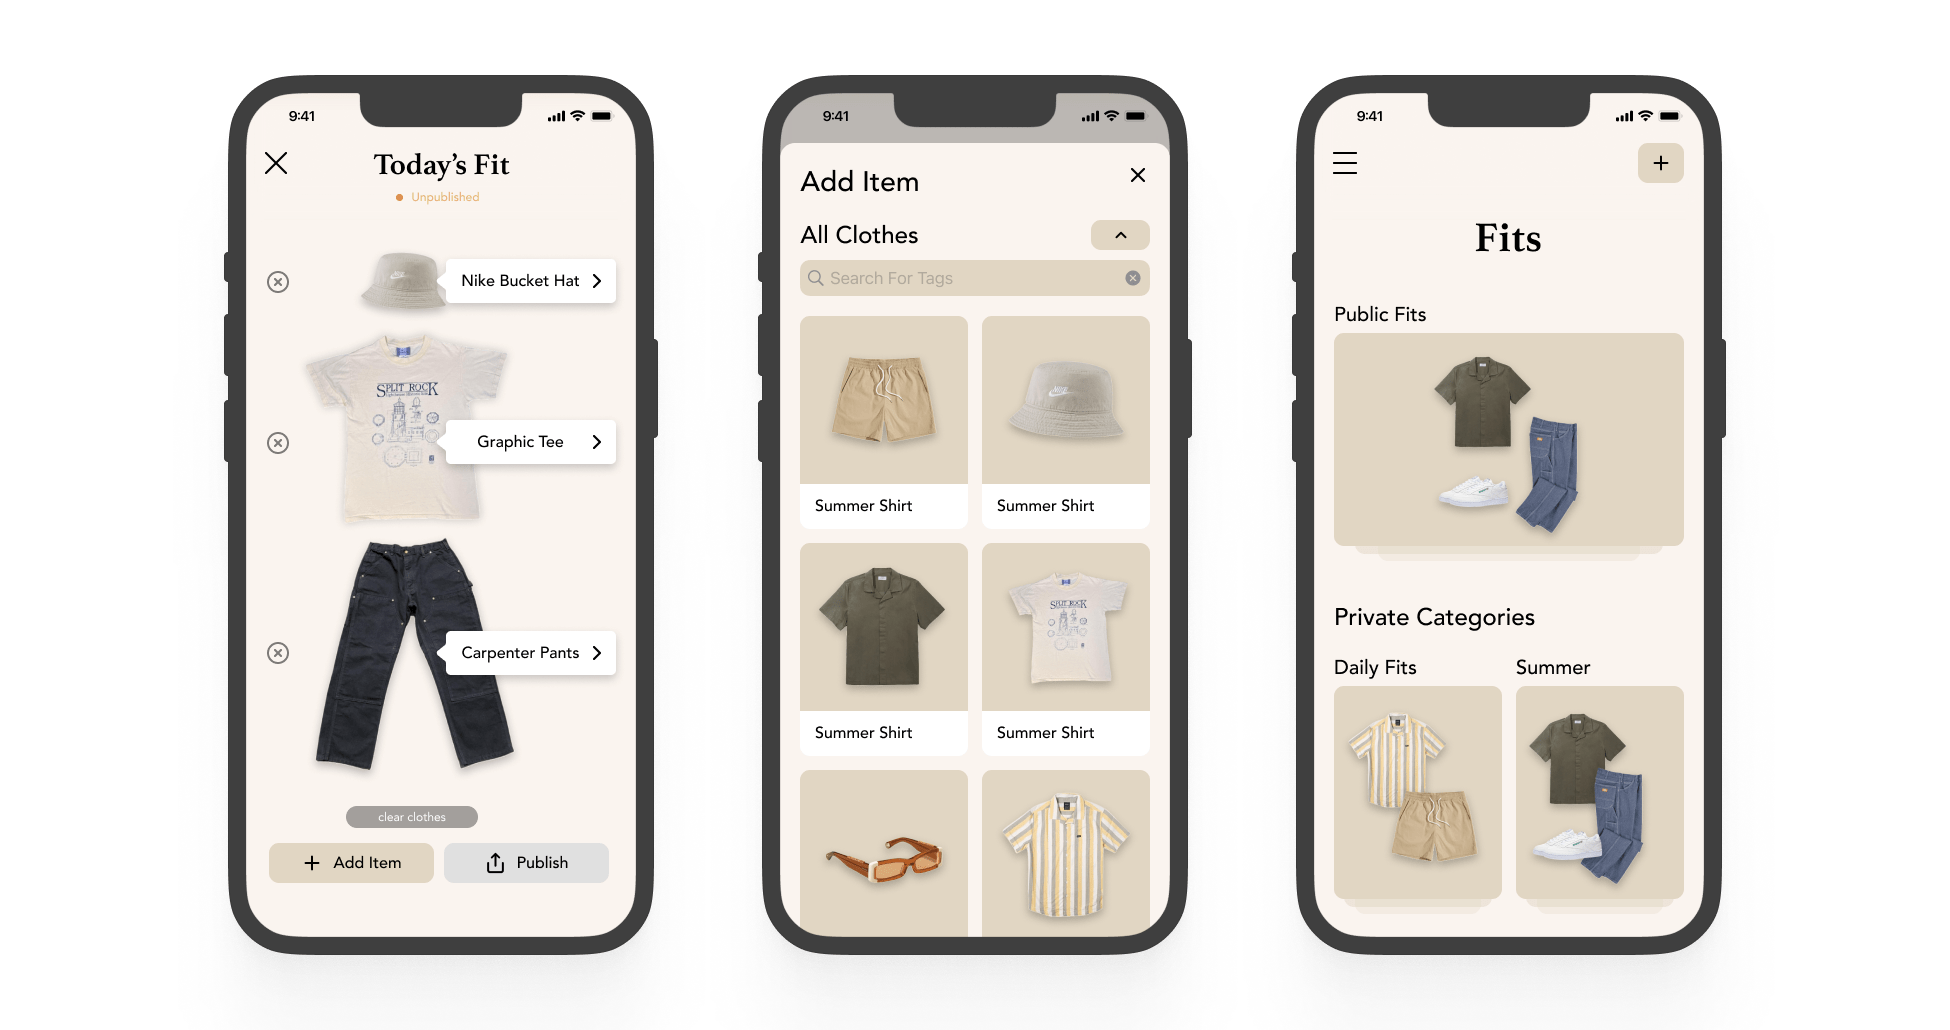
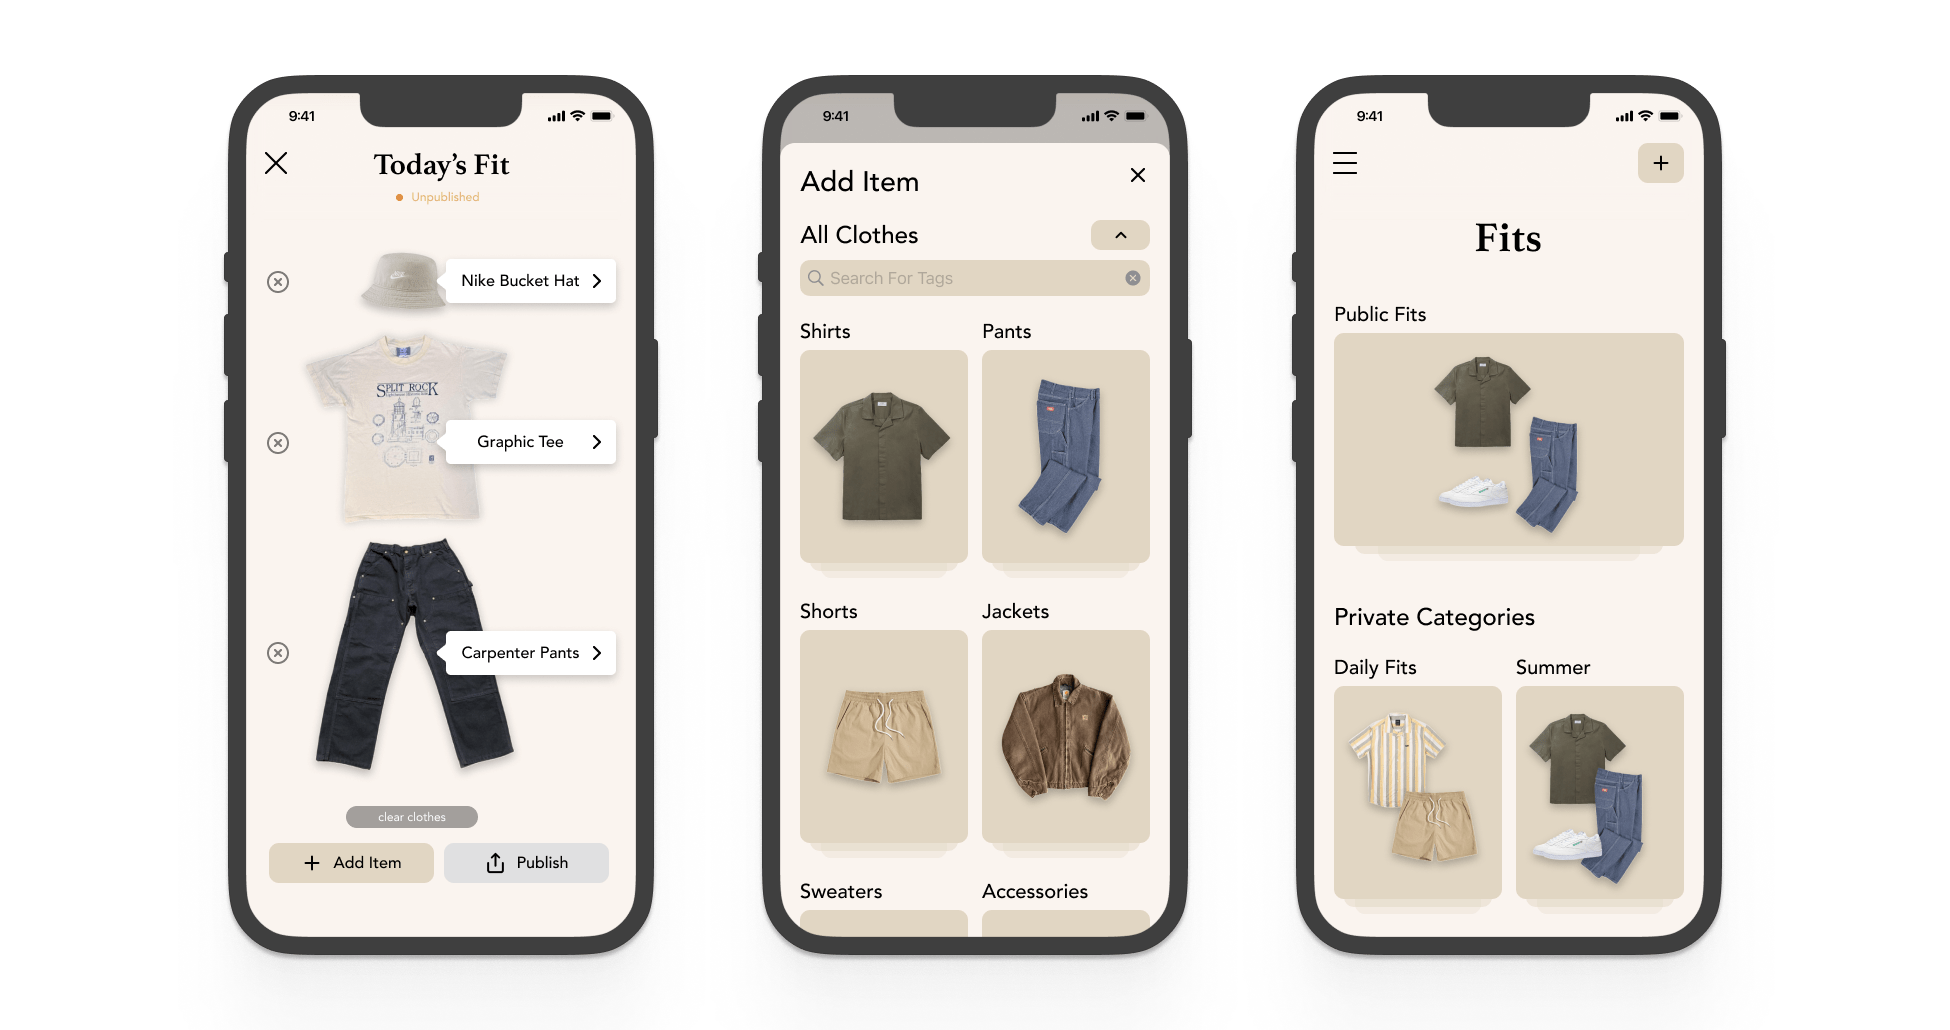
add tailored prototype

Changed region(s): [[0.4, 0.2796, 0.6154, 0.932], [0.6769, 0.901, 0.8615, 0.932], [0.1231, 0.901, 0.3077, 0.932]]

diff --git a/tailored.html b/tailored.html
@@ -73,7 +73,7 @@
             <div class="project-section-description">The original Wardrobe Page was just a huge grouping of all the clothing items and was mainly there as the page to add new items. I wanted to make the page into something that users would actually enjoy browsing and so I switched to using clothing categories inspired by the Fits Page but these categories would be basic and just help with finding specific items. I also modified the "enlarged fits page" to align with the look of the "Daily Fit".</div>
           </div>
         </div>
-        <div class="project-section beigeback bottomsection">
+        <div class="project-section beigeback">
           <div class="project-section-header">Final Design</div>
           <div class="project-subsection">
             <div class="project-section-subheader topsubheader">App Engagement</div>
@@ -107,7 +107,11 @@
             </picture>
             <div class="project-section-description">In addition to creating daily fits, users can create more outfits and sort them in categories that they can then go back to in the future. While the app recommends publishing the daily outfit users can choose to publish the other fits they make as well as categories that they've created.</div>
           </div>
-      </div>
+        </div>
+        <div class="project-section">
+          <div class="project-section-header">Interactive Prototype</div>
+          <iframe id="frame" style="border: 1px solid rgba(0, 0, 0, 0.1);" src="https://www.figma.com/embed?embed_host=share&url=https%3A%2F%2Fwww.figma.com%2Fproto%2F1gsvqLyJtCRBM3Zx1bv17G%2FFashion-App%3Fpage-id%3D0%253A1%26node-id%3D143%253A755%26viewport%3D462%252C414%252C0.16%26scaling%3Dscale-down%26starting-point-node-id%3D143%253A755"></iframe>
+        </div>
       </div>
     </div>
     <div id="project-next">

diff --git a/style.css b/style.css
@@ -617,6 +617,12 @@ canvas {
     min-height: fit-content;
 }
 
+#frame {
+    margin-top: 30px;
+    width: 100%;
+    height: 700px;
+}
+
 #project-section-icondiv {
     display: flex;
     height: min-content;
